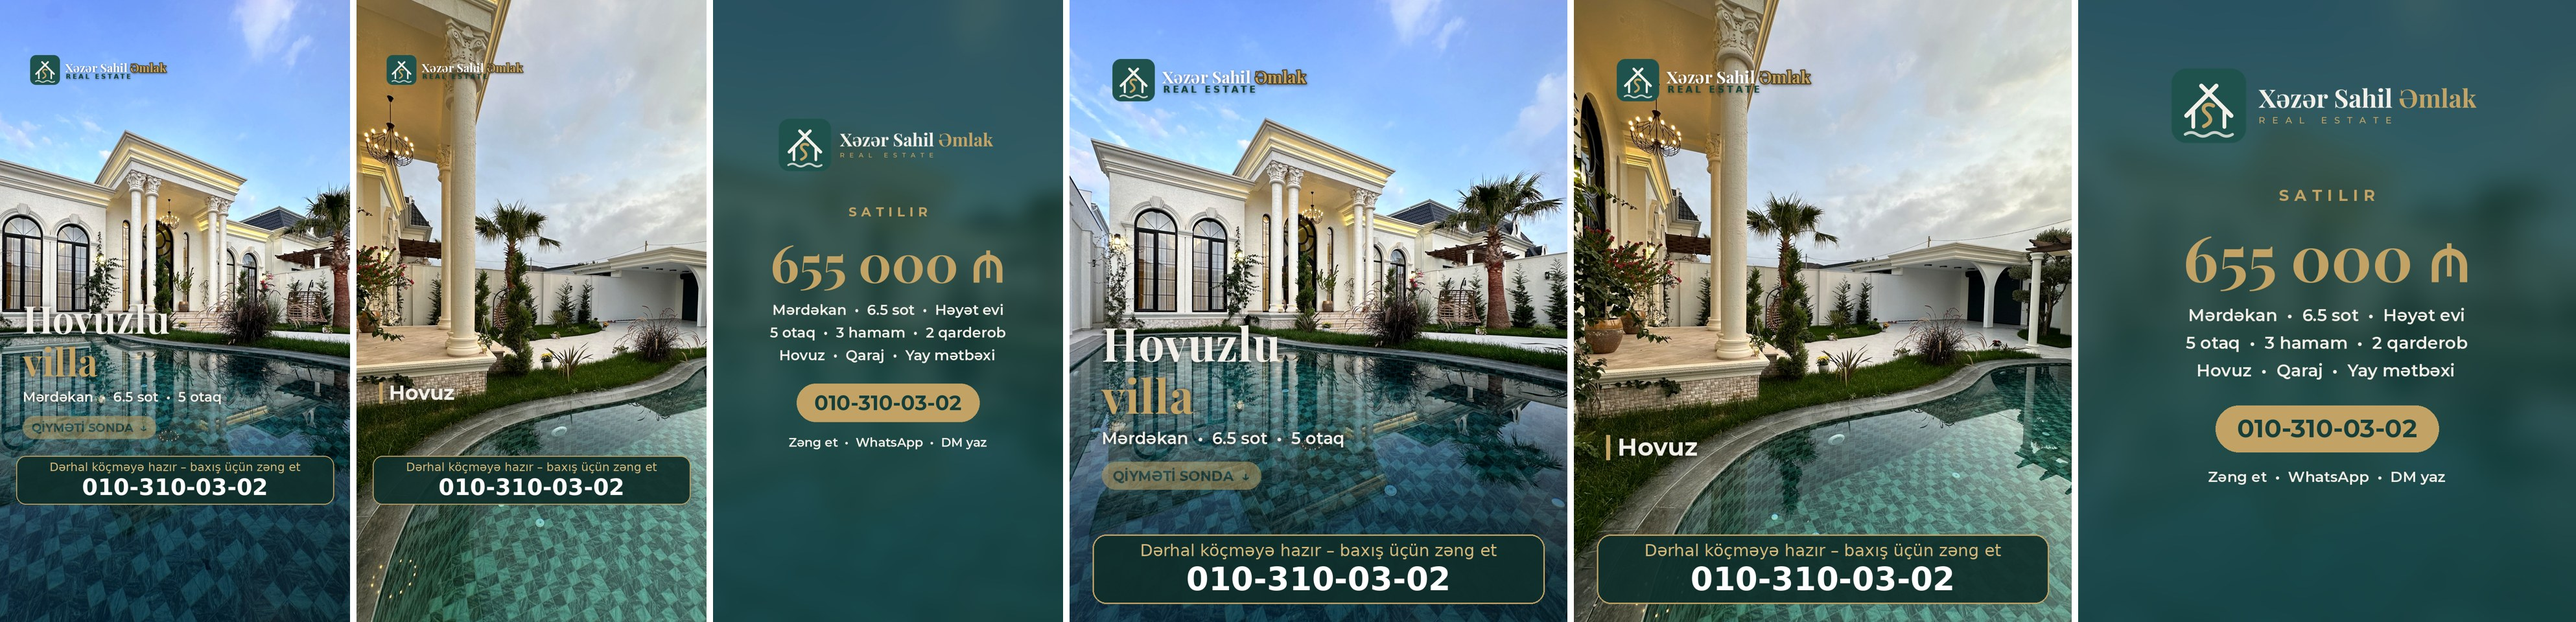
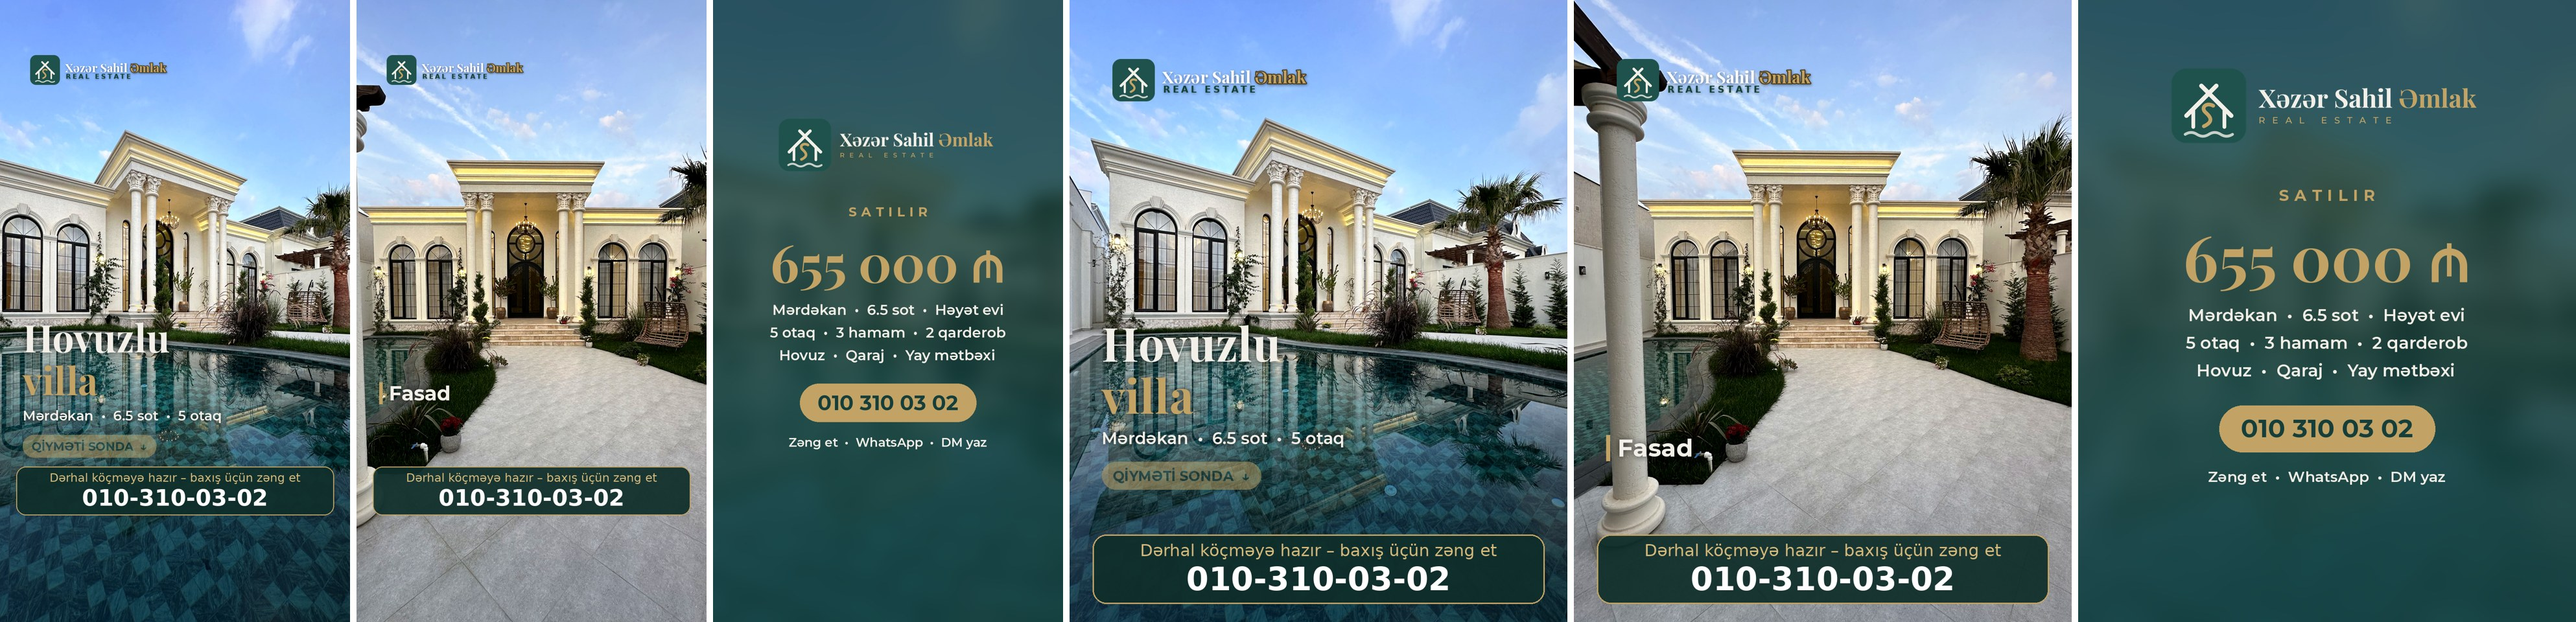
House rule: 'hazırla' runs full template, label every shot, fixed end card
Claude-Session: https://claude.ai/code/session_01EhGUYE71oCE8KrnEG6VKvf

diff --git a/video/render.py b/video/render.py
@@ -296,7 +296,7 @@ class Renderer:
 
         # phone pill
         fph = font("Montserrat700.ttf", 64 * fs)
-        phone = LISTING["phone"]
+        phone = LISTING["phone"].replace("-", " ")  # end card shows "010 310 03 02"
         tw = d.textlength(phone, font=fph)
         ph = int(118 * fs)
         pw = tw + 110 * fs

diff --git a/CLAUDE.md b/CLAUDE.md
@@ -10,10 +10,23 @@ Bu repo Xəzər Sahil Əmlak üçün satılan evlərin TikTok / Instagram videol
 2. **İcazəsiz başlama.** Bütün şəkillər gəldikdən sonra istifadəçidən icazə al
    (və ya istifadəçi özü "başla" desin). Yalnız bundan sonra render et.
 3. İstifadəçi "heçnə yazma" desə, yalnız "✅" ilə cavab ver.
+4. **"Bu məlumatlarıdır, hazırla" = tam iş əmri.** İstifadəçi şəkillər + evin məlumatlarını verib
+   "hazırla" deyəndə (bütün hissələr gəlibsə) əlavə detal soruşmadan bütün işi bu şablonla gör:
+   - **Giriş (başlıq) kadrı:** ən yaxşı fasad/həyət şəkli + evin məlumatları (başlıq, yer • sot • otaq,
+     "QİYMƏTİ SONDA ↓").
+   - **Qalan HƏR şəklin üstündə nə olduğu yazılır:** "Yataq otağı", "Qonaq otağı", "Mətbəx",
+     "Sanuzel", "Qaraj", "Hovuz", "Həyət", "Qarderob", "Dəhliz", "Giriş holu" və s.
+     (`listing.json`-da heç bir kadrın yazısı `null` qalmasın — yalnız giriş kadrının).
+   - **Ən sonda HƏMİŞƏ son kadr şablonu:** `video/reference/approved-end-card.png` kimi — yaşıl fon,
+     loqo, "SATILIR", qiymət ₼, evin bütün məlumatları 3 sətirdə, qızılı düymədə nömrə
+     (`010 310 03 02`, boşluqla), "Zəng et • WhatsApp • DM yaz".
+   - Hər iki formatı (9:16 və 4:5) render et, örtük şəkilləri + paylaşım mətni/heşteqlərlə göndər.
+   - Yalnız həqiqətən çatışmayan məlumatı (məs. qiymət yoxdursa) soruş.
 
 ## Brend şablonu (DƏYİŞMİR — hər ev üçün eyni)
 
-Təsdiqlənmiş nümunə: istifadəçinin göndərdiyi 4:5 kadr (Mərdəkan villa, "Hovuzlu villa").
+Təsdiqlənmiş nümunələr: `video/reference/approved-hook-4x5.jpg` (giriş kadrı) və
+`video/reference/approved-end-card.png` (son kadr). Nümunə ev: `video/listings/merdekan-villa/`.
 Bütün dizayn `video/render.py`-də sabitdir — yeni ev üçün onu dəyişmə, yalnız `listing.json` yaz.
 
 - **Loqo (sol yuxarı, bütün kadrlarda):** yaşıl ikon + "Xəzər Sahil" (ağ) "Əmlak" (qızılı) +
